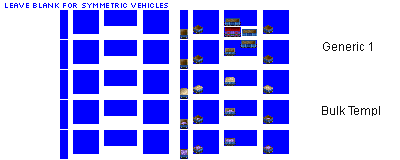
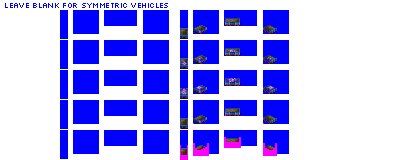
Change: sprites complete for NG open car

diff --git a/src/vehicles/open_cars.py b/src/vehicles/open_cars.py
@@ -7,12 +7,13 @@ def main():
                              base_numeric_id=850,
                              gen=1,
                              subtype='A',
-                             track_type='NG')
+                             track_type='NG',
+                             sprites_complete=True)
 
     consist.add_unit(type=FreightCar,
                      cargo_length=4,
                      vehicle_length=4,
-                     chassis='2_axle_filled_16px')
+                     chassis='4_axle_ng_16px')
 
     #--------------- pony ----------------------------------------------------------------------
 
